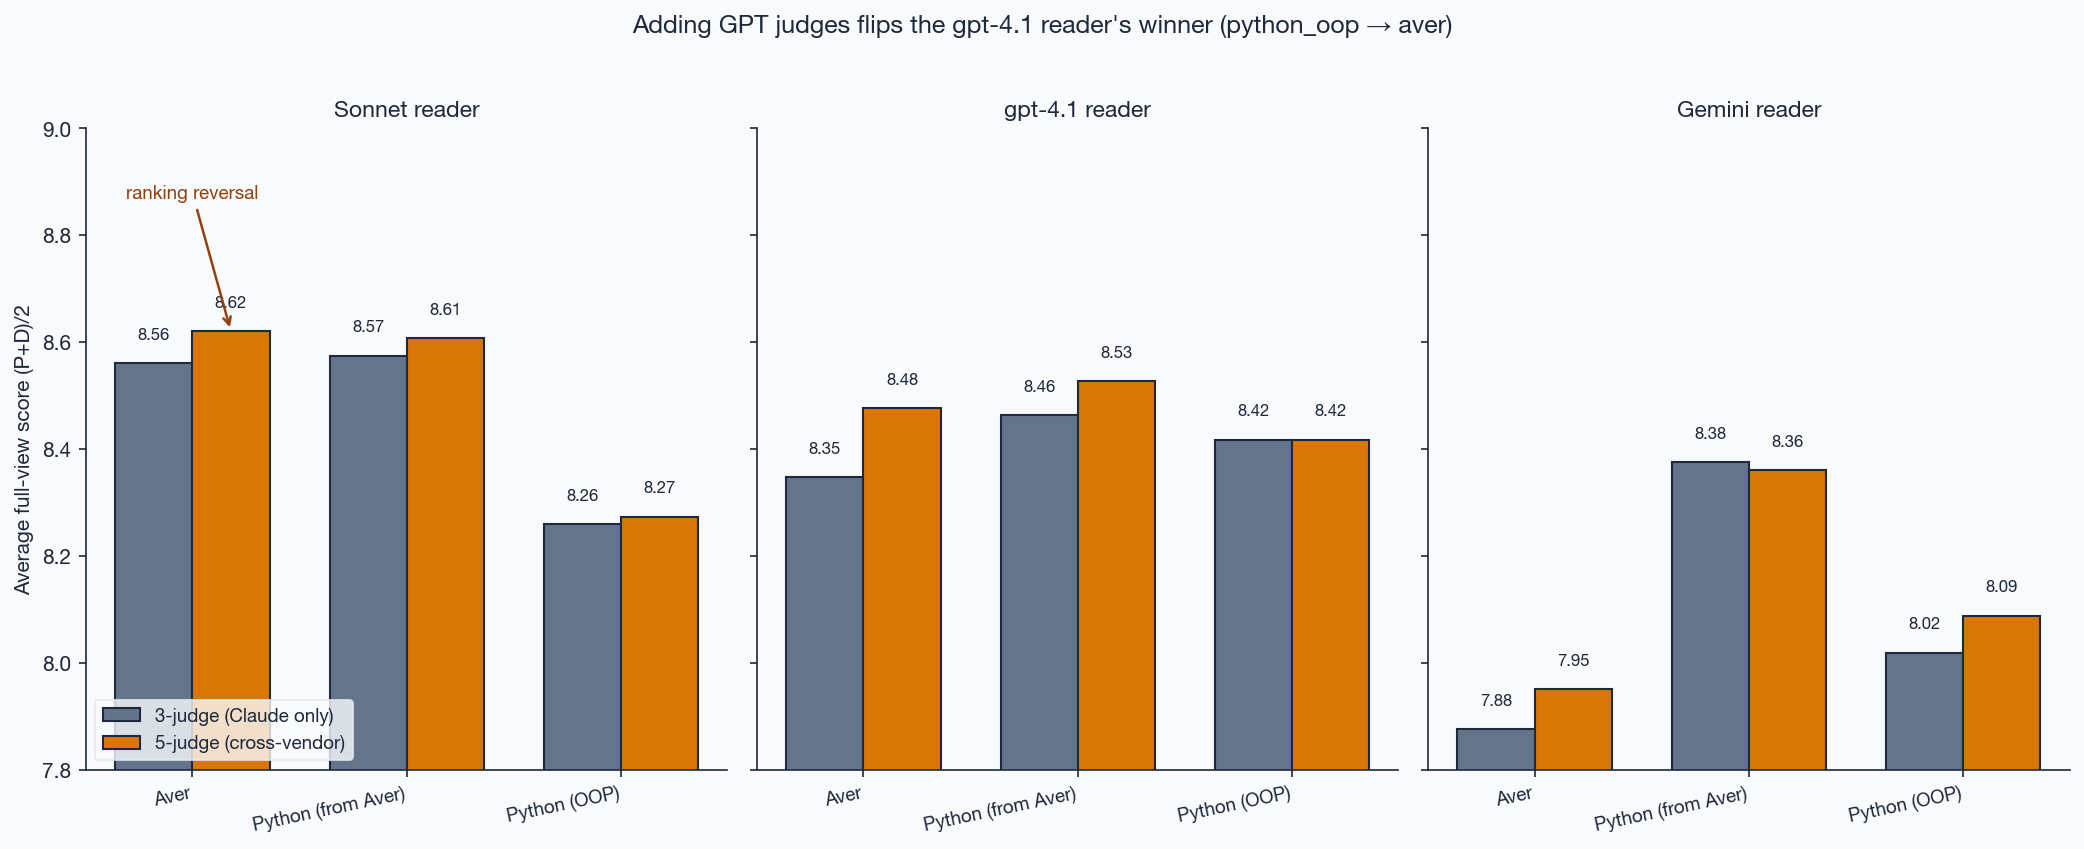
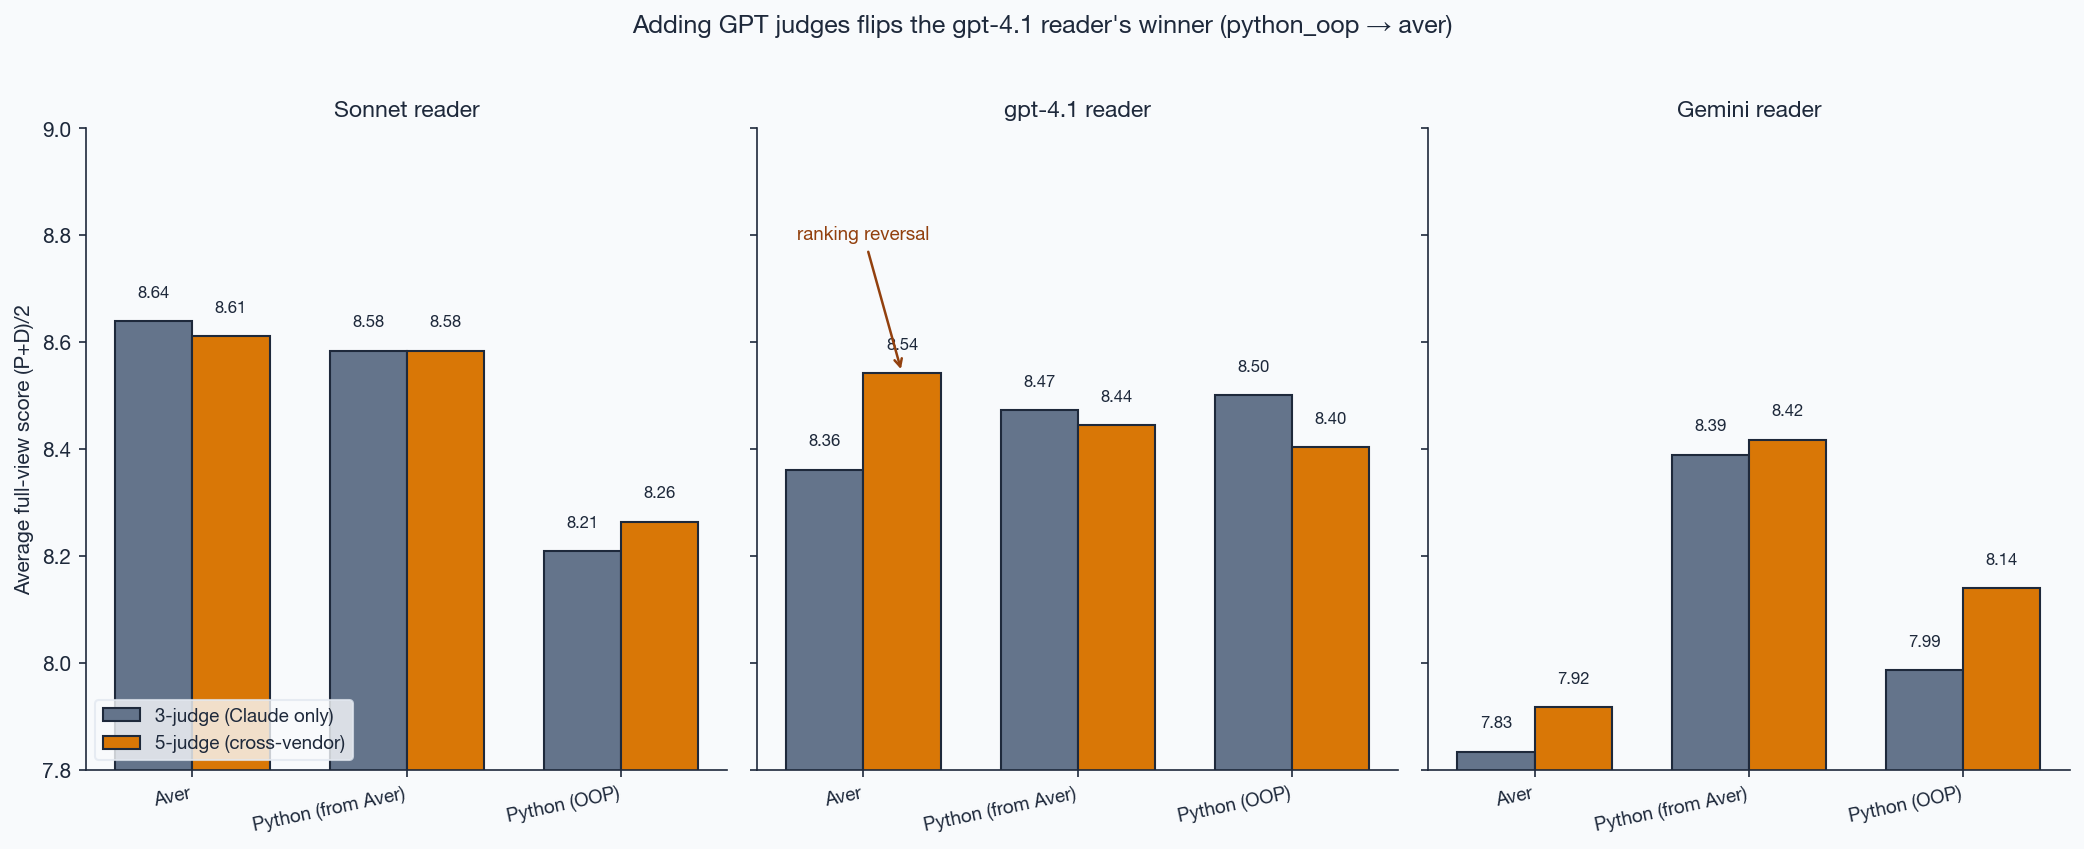
judges_3v5 plot: use median-per-axis aggregation to match run_all.py
Previous version computed mean-of-means across judges, which diverges from
the benchmark's documented aggregation (median per axis across the judge
panel, then (P+D)/2 per slice). The mean-based numbers made the gpt-4.1
reader's 3-judge → 5-judge reversal disappear (python_oop 8.42 ≈ aver 8.48)
and planted a spurious reversal callout on Sonnet where the 3-judge gap
was 0.03 noise.

With correct median aggregation the chart now matches README figures:
 - Sonnet reader: aver 8.64 → 8.61 (stable top)
 - gpt-4.1 reader: python_oop 8.50 → aver 8.54  ← real reversal
 - Gemini reader: python_from_aver 8.38 → 8.42 (stable top)

Callout only fires when the new winner's score lifted by ≥0.10 between
3-judge and 5-judge, not on mere argmax flips within noise.

diff --git a/scripts/plot_judge_bias.py b/scripts/plot_judge_bias.py
@@ -11,7 +11,7 @@ from __future__ import annotations
 import json
 from collections import defaultdict
 from pathlib import Path
-from statistics import mean
+from statistics import mean, median
 
 import matplotlib as mpl
 import matplotlib.pyplot as plt
@@ -121,23 +121,23 @@ def judges_3v5_comparison(out_path: Path) -> None:
         rows = [r for r in load_rows(path) if r.get("view") == "full"]
         three = defaultdict(list)
         five = defaultdict(list)
+        # Match the benchmark's aggregation: median per axis across the judge panel,
+        # then (P+D)/2 per slice. That's what the run_all.py ensemble writes and what
+        # the README / other plots cite.
         for r in rows:
-            claude_scores = []
-            for j in CLAUDE:
-                p = r["judgment_prompt"]["individual"].get(j, {}).get("score", -1)
-                d = r["judgment_diff"]["individual"].get(j, {}).get("score", -1)
-                if p >= 0 and d >= 0:
-                    claude_scores.append((p + d) / 2)
-            all_scores = list(claude_scores)
-            for j in GPT:
-                p = r["judgment_prompt"]["individual"].get(j, {}).get("score", -1)
-                d = r["judgment_diff"]["individual"].get(j, {}).get("score", -1)
-                if p >= 0 and d >= 0:
-                    all_scores.append((p + d) / 2)
-            if claude_scores:
-                three[r["lang"]].append(mean(claude_scores))
-            if all_scores:
-                five[r["lang"]].append(mean(all_scores))
+            def axis_scores(panel, axis):
+                vals = [r[axis]["individual"].get(j, {}).get("score", -1) for j in panel]
+                return [v for v in vals if v >= 0]
+
+            p_c = axis_scores(CLAUDE, "judgment_prompt")
+            d_c = axis_scores(CLAUDE, "judgment_diff")
+            if p_c and d_c:
+                three[r["lang"]].append((median(p_c) + median(d_c)) / 2)
+
+            p_all = axis_scores(CLAUDE + GPT, "judgment_prompt")
+            d_all = axis_scores(CLAUDE + GPT, "judgment_diff")
+            if p_all and d_all:
+                five[r["lang"]].append((median(p_all) + median(d_all)) / 2)
 
         langs = LANGS
         x = np.arange(len(langs))
@@ -154,10 +154,13 @@ def judges_3v5_comparison(out_path: Path) -> None:
                 ax.text(bar.get_x() + bar.get_width() / 2, v + 0.04, f"{v:.2f}",
                         ha="center", va="bottom", fontsize=8, color=SLATE)
 
-        # Highlight ranking change: circle the new winner
+        # Callout only on a real reversal: different winner AND the new winner's
+        # score jumped by ≥0.10 between 3-judge and 5-judge (i.e. GPT judges
+        # meaningfully lifted it, not just tiny noise shuffling).
         top_five = int(np.argmax(five_vals))
         top_three = int(np.argmax(three_vals))
-        if top_five != top_three:
+        winner_lift = five_vals[top_five] - three_vals[top_five]
+        if top_five != top_three and winner_lift >= 0.10:
             ax.annotate("ranking reversal", xy=(top_five + w / 2, five_vals[top_five]),
                         xytext=(top_five, max(five_vals) + 0.25),
                         fontsize=9, fontweight="bold", color=AMBER_DARK, ha="center",
